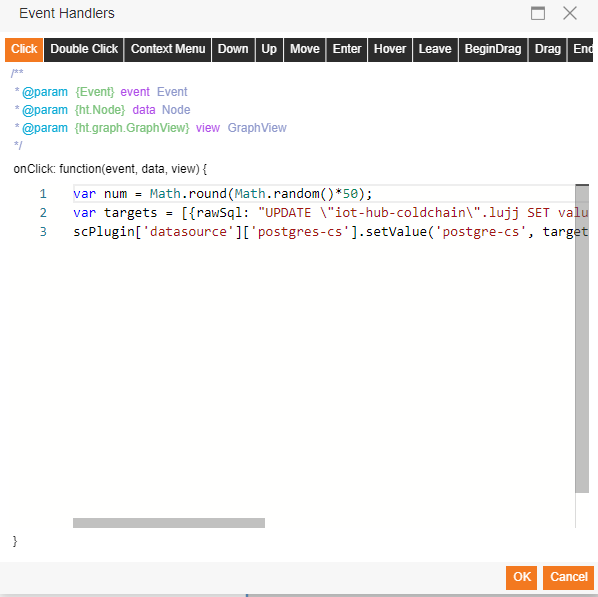
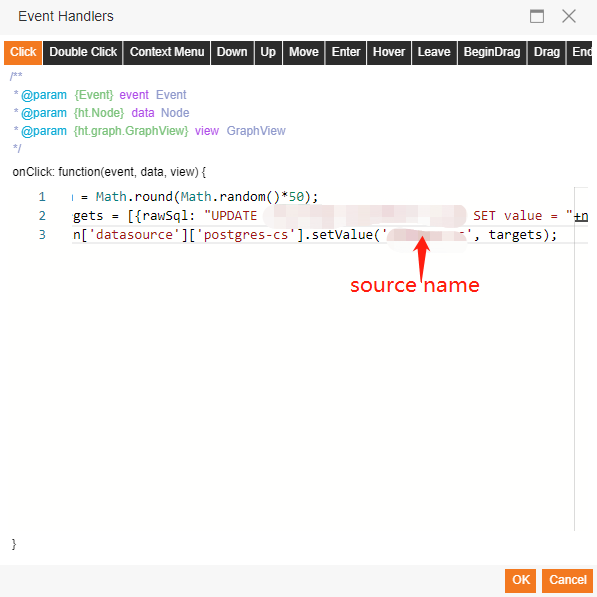
Update Doc

diff --git a/README.md b/README.md
@@ -16,7 +16,7 @@
     var num = Math.round(Math.random()*50);
     var targets = [
         {
-            rawSql: "UPDATE \"iot-hub-coldchain\".lujj SET value = "+num+" WHERE c1 = 'Cheese'",
+            rawSql: "UPDATE Schemas.Table SET value = "+num+" WHERE c1 = 'Cheese'",
             scDataType: "value",
             sourceType: "postgres",
             target: "set",
@@ -37,4 +37,4 @@ Use click event trigger setValue function execute.
 
 - If variable name is **aaa**.  
 
-    var targets = [{rawSql: "UPDATE \"iot-hub-coldchain\".lujj SET value = "+num+" WHERE c1 = '[[aaa]]'",scDataType: "value",sourceType: "postgres",target: "set",type: "set"}]
+    var targets = [{rawSql: "UPDATE Schemas.Table SET value = "+num+" WHERE c1 = '[[aaa]]'",scDataType: "value",sourceType: "postgres",target: "set",type: "set"}]
